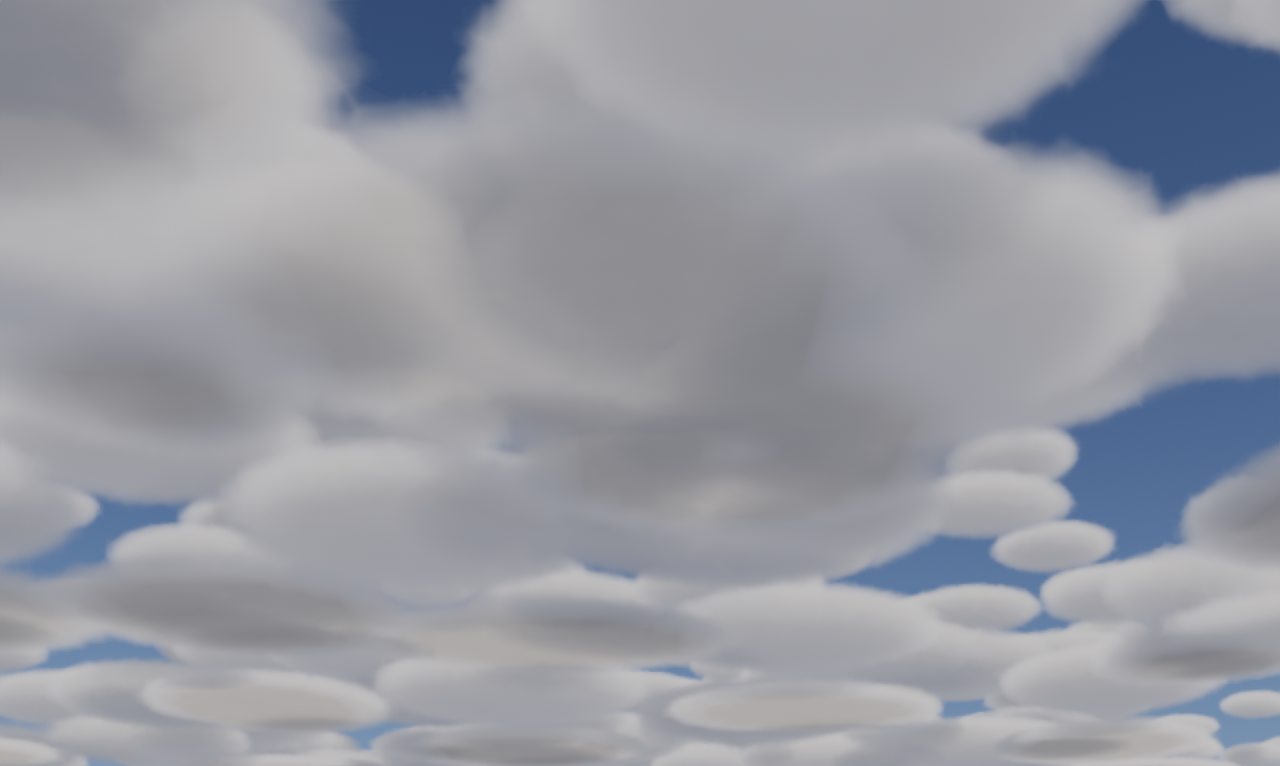
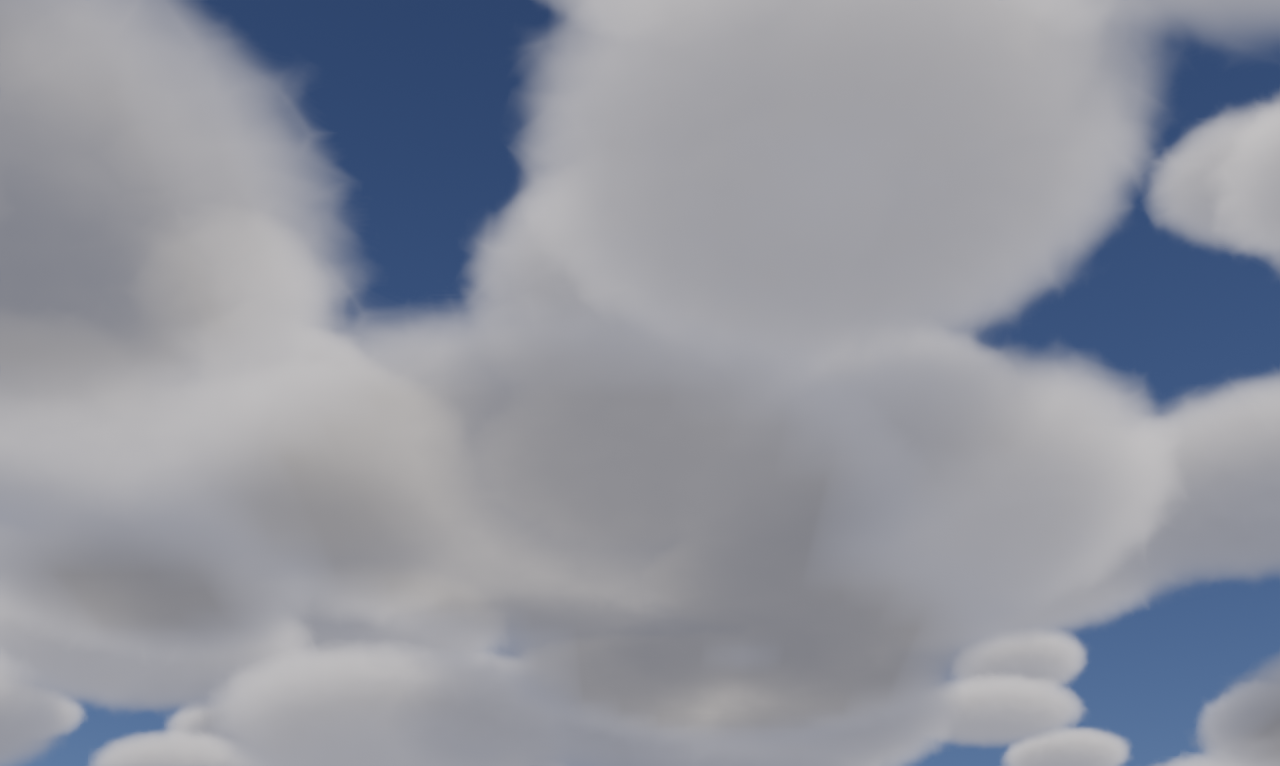
clouds(DS): 'byte for byte' was true of a configuration that does not ship
THREE CORRECTIONS FROM REVIEW, and the first is the one that mattered.

1. THE RE-BASE RESTORES THE DEPTH AND NOT THE SCALE. §DS claimed the two re-based
   types 'render BYTE FOR BYTE what they rendered at the old layer strength'. The
   archive refutes it: md5 of DS_cirrus_before.png and DS_cirrus_shipped.png differ.
   The cmp behind the claim had been run with the tile pinned at one kilometre in
   both arms — one variable isolated honestly, but a configuration that does not
   ship. Detail Tile Size is the LAYER's and Detail Factor is the TYPE's, so a
   re-based factor restores a type's cut DEPTH and cannot restore the SCALE of the
   field that cut is taken from, because the tile moved for all nine types at once.

   Measured and now in the document: cirrus 0.00076 mean luminance delta over 21.7 %
   of pixels at most 10/255, altocumulus 0.00510 over 74.4 % at most 16/255. How
   much of each type is in the sky is preserved to within one per cent; where its
   material sits is not. The DS_cirrus_before / DS_cirrus_shipped pair IS that
   change and nothing else, since the re-base makes their depths identical.

   The arithmetic itself is still verified byte for byte, on the SHIPPED library,
   with the one variable held alone: driving the layer to 0.40 against the re-based
   files at the OLD tile reproduces the old shipped frame exactly, both types.

2. THE CONGESTUS FRAME CARRIED NO INFORMATION — it was a byte copy of
[…]

diff --git a/Desert/Desert/Source/Engine/ECS/VolumetricCloudComponent.hpp b/Desert/Desert/Source/Engine/ECS/VolumetricCloudComponent.hpp
@@ -376,6 +376,20 @@ namespace Desert::ECS
         // 4.3 % and the altocumulus' from 51.5 % to 7.5 %: both are half the density of a cumulus, so a
         // deep cut deletes them rather than shredding them. Their factors were RE-BASED to 0.625 and 0.40,
         // which restores the effective cut their files were authored at exactly.
+        //
+        // AND "EXACTLY" BELONGS TO THE DEPTH ALONE, because the two settings have different SCOPES: this
+        // one and Detail Tile Size are the LAYER's, Detail Factor is the TYPE's. A re-based factor can
+        // restore a type's cut depth; it cannot restore the SCALE of the field that cut is taken from,
+        // because the tile moved for all nine types at once. Measured, the redistribution is small and
+        // the amount of cloud is not: the cirrus' contribution to the frame moves by −0.4 % and the
+        // altocumulus' by +1.1 %. Docs/Clouds/CALIBRATION.md §DS carries the frames and the correction.
+        //
+        // A CONSEQUENCE RECORDED RATHER THAN LEFT TO BE DISCOVERED: at 2.50 the cirrus reached the clamp
+        // at this value, so the wispiest type in the library could be driven to the deepest cut the maths
+        // allows; at 0.625 it tops out there however far this slider is pushed. That range rendered 4.3 %
+        // of the type — its top end deleted the cloud rather than shredding it — so what was removed is
+        // range that produced nothing. A more ragged cirrus needs the density to carry a deeper cut first.
+        //
         // Desert/Tests/Engine/CloudType asserts the bound that follows from it — no shipped type may be
         // cut deeper than the reference congestus — and Desert/Tests/Engine/CloudField asserts the floor.
         //

diff --git a/Desert/Tests/Engine/CloudType/cloud_type_test.cpp b/Desert/Tests/Engine/CloudType/cloud_type_test.cpp
@@ -881,7 +881,10 @@ TEST( CloudTypeLibrary, TheLayersDetailStrengthStillMovesEveryShippedType )
     //
     // Both were authored against a layer of 0.10 and both are half the density of a cumulus, so the same
     // arithmetic that gives a congestus an edge deletes them. Their factors were re-based — 0.625 and
-    // 0.40 — which restores their effective cut to what their files were authored at, EXACTLY.
+    // 0.40 — which restores their effective cut DEPTH to what their files were authored at, exactly, and
+    // restores nothing else: Detail Tile Size is the LAYER's and it moved for all nine types, so both now
+    // meet an erosion four times finer than their files ever saw. The amount of each type in the sky is
+    // preserved to about one per cent; where its material sits is not (CALIBRATION.md §DS).
     //
     // So the bound asserted below is the reference type's own cut: no type may be cut DEEPER than the
     // congestus whose factor is 1 by definition, because past that depth the measurement says a thin body

diff --git a/Docs/Clouds/CALIBRATION.md b/Docs/Clouds/CALIBRATION.md
@@ -2200,15 +2200,67 @@ authored above 1 and both dissolved. Measured against a CLOUDLESS frame at the s
 Both are half the density of a cumulus, so a deep cut does not shred them — it deletes them. **There is no
 layer value that serves both ends**: the march needs 0.40 for a type of factor 1, and altocumulus needs
 0.10 to keep half of itself. So the factors were **re-based** — cirrus 2.50 -> **0.625**, altocumulus
-1.60 -> **0.40** — which restores the effective cut their files were authored at, exactly.
+1.60 -> **0.40**.
 
-**And the re-base is verified the strongest way available: both types now render BYTE FOR BYTE what they
-rendered at the old layer strength** (`cmp`, not a pixel diff), because `0.40 x 0.625 = 0.10 x 2.50` and
-`0.40 x 0.40 = 0.10 x 1.60`.
+#### What the re-base restores, and what it does NOT — the correction that matters most in this section
+
+**The re-base restores the DEPTH of the cut and nothing else, and the word "exactly" belongs to the depth
+alone.** An earlier draft of this section claimed the two types "render BYTE FOR BYTE what they rendered
+at the old layer strength". That claim is FALSE of the shipped configuration and the archive says so: the
+md5 of `Shots/DS_cirrus_before.png` and `Shots/DS_cirrus_shipped.png` differ. The `cmp` behind the claim
+had been run with the tile held at one kilometre in both arms — which isolates one variable honestly, but
+is a configuration that does not ship.
+
+The reason is a seam between two scopes, and it is worth naming because it is the same shape as the defect
+this whole task is about:
+
+> `Detail Tile Size` is a property of the **LAYER**. `Detail Factor` is a property of the **TYPE**.
+> Re-basing the factor can restore a type's cut DEPTH; it cannot restore the SCALE of the field that cut
+> is taken from, because the scale moved for all nine types at once.
+
+So the shipped cirrus and altocumulus meet an erosion **four times finer** than anything their files were
+authored against. What that costs, measured:
+
+| | depth restored? | old shipped vs shipped now | its contribution to the frame |
+|---|---|---|---|
+| cirrus | yes, `0.40 x 0.625 = 0.10 x 2.50` | mean luminance delta **0.00076**, 21.7 % of pixels, max **10**/255 | 0.00257 -> **0.00256**, −0.4 % |
+| altocumulus | yes, `0.40 x 0.40 = 0.10 x 1.60` | mean luminance delta **0.00510**, 74.4 % of pixels, max **16**/255 | 0.04879 -> **0.04933**, +1.1 % |
+
+**How much of each type is in the sky is preserved to within one per cent; where its material sits is
+not.** That is the honest statement, and it is the one an artist needs: the finer tile redistributes a
+cirrus into shorter, more broken fibres and an altocumulus into smaller lobes, at the same total amount of
+cloud. `Shots/DS_cirrus_before.png` against `Shots/DS_cirrus_shipped.png` is exactly that change and
+nothing else, because the depth is identical between those two frames — it is the picture of what moving
+the layer's tile does to a type that did not ask for it.
+
+**And the arithmetic of the re-base IS verified byte for byte, on the shipped library, with the one
+variable it is about held alone.** Driving the layer to 0.40 against the re-based files AT THE OLD TILE
+reproduces the old shipped frame exactly (`cmp`, not a pixel diff), for both types. That is what proves
+`0.40 x 0.625 = 0.10 x 2.50` survives the whole renderer, and it is all it proves.
 
 `Desert/Tests/Engine/CloudType` asserts what follows: no shipped type may be cut deeper than the reference
-congestus whose factor is 1 by definition. A type that genuinely wants a deeper cut needs the density to
-carry it, and that is content work with its own frames.
+congestus whose factor is 1 by definition.
+
+#### THE TOP OF THE CIRRUS' RANGE IS GONE, AND THAT IS A DECISION RATHER THAN A SIDE EFFECT
+
+Before the re-base a cirrus reached the clamp — an effective cut of 1.0, the deepest the maths allows — at
+a layer strength of 0.40, so an artist could drive the wispiest type in the library to the deepest cut
+there is. With a factor of 0.625 the deepest it can reach at the TOP of the layer's slider is 0.625. The
+type that is shredded by definition has lost the top of its range.
+
+**That range was not usable and the measurement is above: at an effective cut of 1.0 the cirrus keeps
+4.3 % of its contribution to the frame.** The top of that range did not produce a more ragged cirrus, it
+produced no cirrus — a control whose top end deletes the thing it controls, which is the contract's §1.3
+complaint arrived at from the other side. Removing range that renders nothing is not a loss.
+
+**What an artist who asks for a more ragged cirrus actually needs is a body that can carry a deeper cut.**
+The type's own `DensityFactor` is 0.35 and its `ExtinctionFactor` 0.25 — it is thin on purpose, and thin
+is what the erosion dissolves. The path is to raise the density first and the factor after; `Detail
+Factor`'s own slider runs to 8, so the range exists once the body can hold it. That is content work with
+its own frames, and it is recorded here so the request is met with this measurement rather than with a
+surprise. Note also that it does not escape the ceiling above it: the ray sees a cloud at a profile of
+0.694 whatever the type, so the `(1 - Profile)` weight still delivers 31 % of the nominal depth to the
+surface.
 
 ### The six points
 
@@ -2261,9 +2313,10 @@ moves by 0.0002 between before and after.
 | `Shots/DS_before_zenith_away.png` / `DS_after_zenith_away.png` | **⬛ THE SHOW.** Before: soft featureless blobs with no edge anywhere. After: scalloped silhouettes with cauliflower lobes on them, and the bodies are still solid |
 | `Shots/DS_before_mid_away.png` / `DS_after_mid_away.png` | the same pair at the elevation a player looks at |
 | `Shots/DS_before_horizon_away.png` / `DS_after_horizon_away.png` | the far field, which is where a finer erosion would show as dither if the tile had gone below the march's chord. It does not: the band at the vanishing point is clean |
-| `Shots/DS_cirrus_before.png` / `DS_cirrus_dissolved.png` / `DS_cirrus_rebased.png` | **the break and its fix.** The middle frame is the new layer strength against the factor the file was authored with — the sky is very nearly empty. The third is the re-based factor |
+| `Shots/DS_cirrus_before.png` / `DS_cirrus_dissolved.png` / `DS_cirrus_shipped.png` | **the break, and what the fix does and does not restore.** The middle frame is the new layer strength against the factor the file was authored with — the sky is very nearly empty, 4.3 % of the type left. The third is what ships. The FIRST and THIRD differ by the layer's tile ALONE, because the re-base makes their cut depths identical: that pair is the picture of a type meeting an erosion four times finer than its file was authored against — the same amount of cirrus, redistributed into shorter fibres |
+| `Shots/DS_altocumulus_before.png` / `DS_altocumulus_shipped.png` | the second re-based type, the same comparison: cut depth identical, tile four times finer, 74.4 % of pixels moved by at most 16 of 255 and the type's contribution to the frame up 1.1 % |
 | `Shots/DS_stratocumulus_before.png` / `DS_stratocumulus_after.png` | the type that gains the most: a soft smear becomes individual cloud elements |
-| `Shots/DS_congestus_before.png` / `DS_congestus_after.png` | the shipped default type, which is what `Clouds_Demo` renders |
+| `Shots/DS_congestus_before.png` / `DS_congestus_after.png` | the reference type, at `0,0.65,-1` — **an elevation deliberately outside the six protocol points**, so that it is a third per-type frame rather than a protocol frame under a second name. An earlier draft shipped it as a byte copy of `DS_*_mid_away.png`, which carried no information the protocol did not already carry |
 
 ### The relations added, and the breaks that verified them
 
